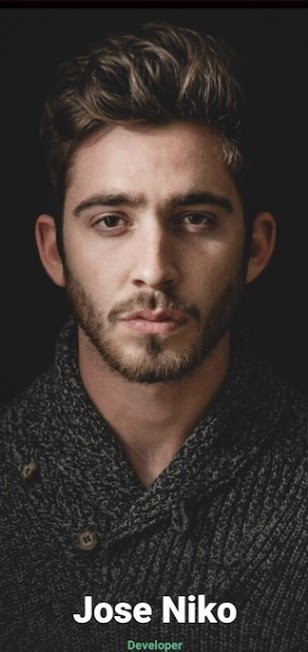
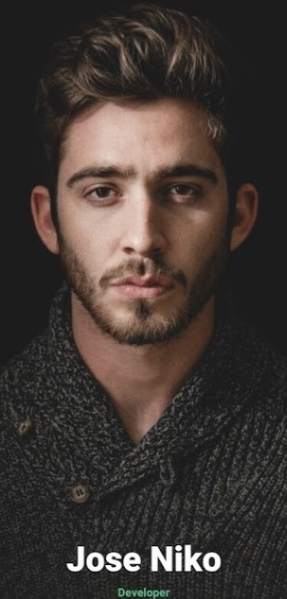
committ successfully

diff --git a/index.html b/index.html
@@ -1,72 +1,68 @@
 <!DOCTYPE html>
 <html lang="en">
+
 <head>
     <meta charset="UTF-8">
     <meta http-equiv="X-UA-Compatible" content="IE=edge">
     <meta name="viewport" content="width=device-width, initial-scale=1.0">
     <link rel="stylesheet" href="style.css">
-    <link rel="stylesheet" href="https://stackpath.bootstrapcdn.com/font-awesome/4.7.0/css/font-awesome.min.css" integrity="sha384-wvfXpqpZZVQGK6TAh5PVlGOfQNHSoD2xbE+QkPxCAFlNEevoEH3Sl0sibVcOQVnN" crossorigin="anonymous">
+    <link rel="stylesheet" href="https://stackpath.bootstrapcdn.com/font-awesome/4.7.0/css/font-awesome.min.css"
+        integrity="sha384-wvfXpqpZZVQGK6TAh5PVlGOfQNHSoD2xbE+QkPxCAFlNEevoEH3Sl0sibVcOQVnN" crossorigin="anonymous">
     <title>Resume</title>
 </head>
+
 <body>
-    
+
     <div class="image">
-        <img src="imgcv.jpg" alt="The cv image" title="cv photo"  height="100%" width="360px">
+        <img src="imgcv.jpg" alt="The cv image" title="cv photo" height="100%">
     </div>
+        <div class="detail">
+            <h1>About Me</h1>
+            <p class="free">28 years &nbsp; / Lviv &nbsp; / Freelance </p>
+            <p style="font-size: 20px; font-style: oblique; color: #27bebe;">prolific, full stack wed developer with a
+                passion for metrices and beating former "best-yets" prototyed 25 new
+                products per year for flexor, Lnc Decreased rework by 22% and costsby 15% consistently receive high user
+                experience
+                scores for all web development projects, including a 55% increase for flexor, Inc passionate about
+                building world class web application. one of sites received a 2015
+                webby for best navigation and structure
+            </p>
 
-    <div class="detail">
-        <h1>About Me</h1>
-        <p class="free">28 years &nbsp; /  Lviv &nbsp; /  Freelance </p>
-    <p style="font-size: 20px; font-style: oblique; color: #27bebe;" >prolific, full stack wed developer with a passion for metrices and beating former "best-yets" prototyed 25 new
-        products per year for flexor, Lnc Decreased rework by 22% and costsby 15% consistently receive high user experience 
-        scores for all web development projects, including a 55% increase for flexor, Inc passionate about building world class web application. one of sites received a 2015 
-        webby for best navigation and structure
- </p>
+            <hr>
 
- <hr>
+            <div class="newheading">
+                <h1>My Services</h1>
 
- <div class="newheading">
-     <h1>My Services</h1>
-     
-     <h1>Development</h1>
-     <i style="font-size: 30px; color: greenyellow;" class="fa fa-laptop"></i>
-     
-     <p style="color:#27bebe;">building a custom tailored solution based on your technical specification</p>
- </div>
+                <h1>Development</h1>
+                <i style="font-size: 30px; color: greenyellow;" class="fa fa-laptop"></i>
 
- <div class="seooptimization">
-     <h1>Seo Optimization</h1>
-     <i style="font-size: 30px; color: greenyellow;" class="fa fa-rocket"></i>
-     <p  style="color:#27bebe;" >audit your website, perform technical
-         <br> improvements and write meta tag</p>
+                <p style="color:#27bebe;">building a custom tailored solution based on your technical specification</p>
+            </div>
 
-         <div class="DataSecurity">
-            <h1>Data Security</h1>
-            <i style="color: greenyellow; font-size: 30px;" class="fa fa-times-circle"></i>
-            <p style="color: #27bebe;">strategy with leading data protection 
-                <br> technology to safeguard your critical data </p>
+            <div class="seooptimization">
+                <h1>Seo Optimization</h1>
+                <i style="font-size: 30px; color: greenyellow;" class="fa fa-rocket"></i>
+                <p style="color:#27bebe;">audit your website, perform technical
+                    <br> improvements and write meta tag
+                </p>
+
+                <div class="DataSecurity">
+                    <h1>Data Security</h1>
+                    <i style="color: greenyellow; font-size: 30px;" class="fa fa-times-circle"></i>
+                    <p style="color: #27bebe;">strategy with leading data protection
+                        <br> technology to safeguard your critical data
+                    </p>
+                </div>
+            </div>
+
+            <div class="database">
+                <h1>Data base</h1>
+                <i style="color: greenyellow; font-size: 30px;" class="fa fa-database"></i>
+                <p style="color: #27bebe;">SSL certification installation and configration
+                    <br> redirection configuration on your website
+                </p>
+            </div>
         </div>
- </div>
-
- <div class="database">
-    <h1>Data base</h1>
-    <i style="color: greenyellow; font-size: 30px;" class="fa fa-database"></i>
-    <p style="color: #27bebe;">SSL certification installation and configration
-        <br> redirection configuration on your website</p>
-</div>
-
-<!-- <div class="DataSecurity">
-    <h1>Data Security</h1>
-    <p>strategy with leading data protection 
-        <br> technology to safeguard your critical data </p>
-</div> -->
-
-    </div>
-
-
-    
-
-
-    
 </body>
+
 </html>

diff --git a/style.css b/style.css
@@ -4,14 +4,12 @@
 
 .image{
     float: left;
-    width: 300px;
-}
+    margin: 10px;}
 
 .detail{
-    width: 1150px;
+    width: 1300px;
     height: 200px;
     color: white;
-    float: right;
     align-items: center;
     margin-top: 20px;
     
